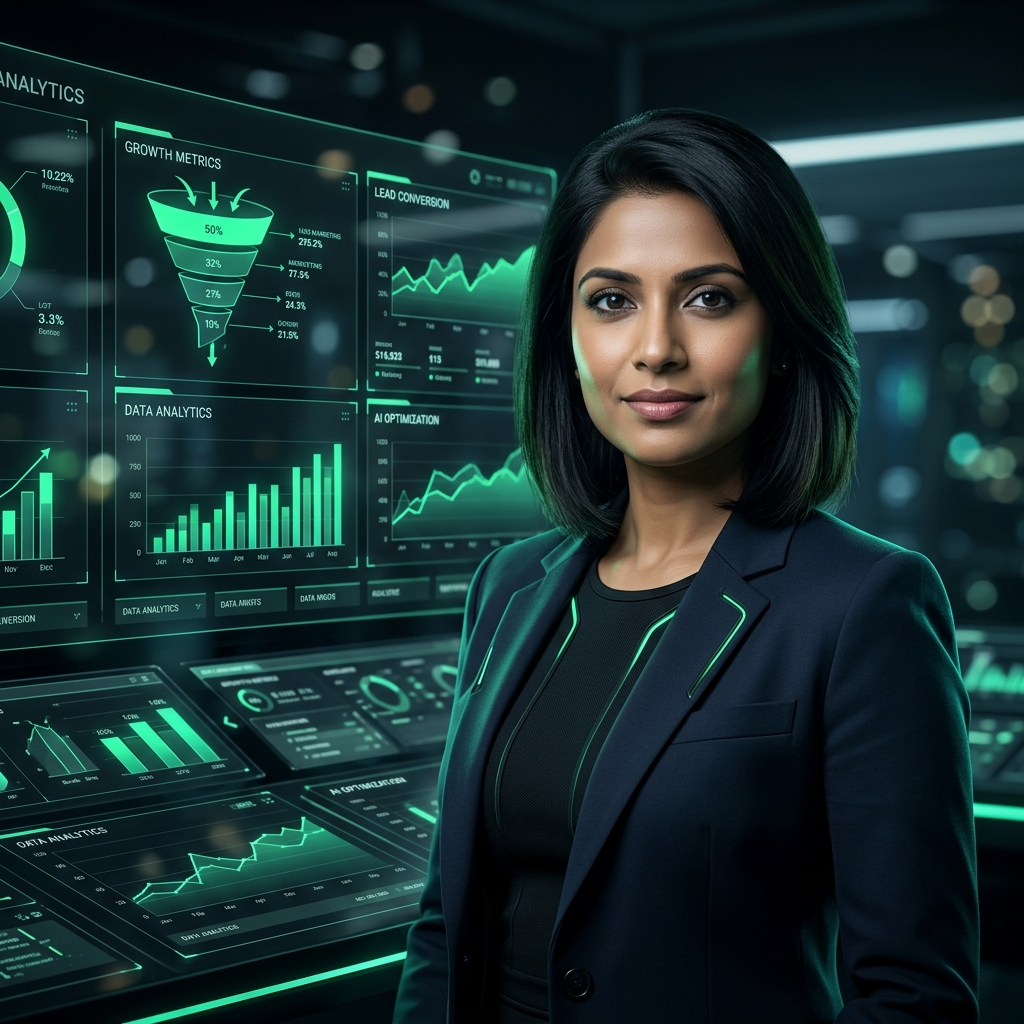
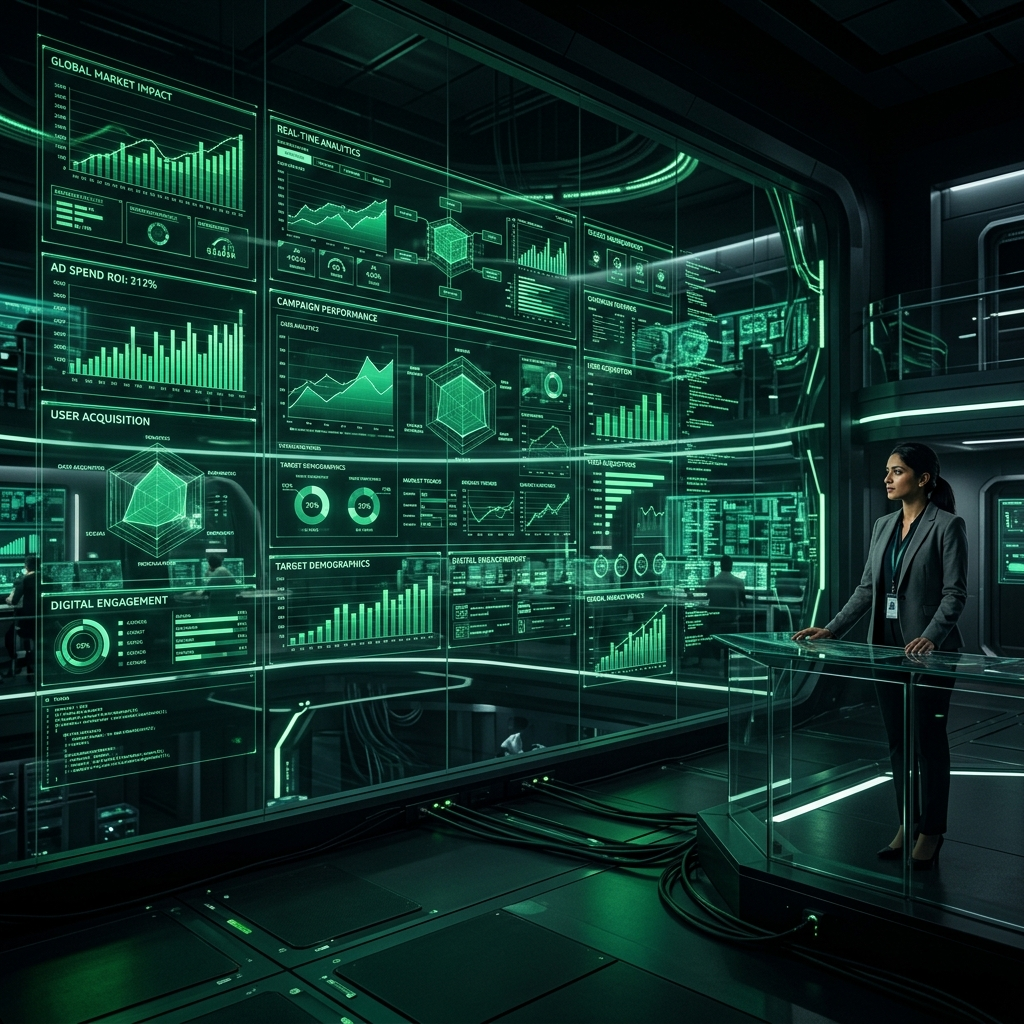
Expose zoomed-out Trisha cover slide with default center alignment

diff --git a/login.html b/login.html
@@ -7,7 +7,7 @@
     <link rel="preconnect" href="https://fonts.googleapis.com">
     <link rel="preconnect" href="https://fonts.gstatic.com" crossorigin>
     <link href="https://fonts.googleapis.com/css2?family=Orbitron:wght@700;800;900&family=Share+Tech+Mono&family=JetBrains+Mono:wght@400;500;700&display=swap" rel="stylesheet">
-    <link rel="stylesheet" href="style.css?v=1.5">
+    <link rel="stylesheet" href="style.css?v=1.6">
 </head>
 <body class="login-body-layout">
     <!-- Abstract gradient backgrounds -->

diff --git a/index.html b/index.html
@@ -7,7 +7,7 @@
     <link rel="preconnect" href="https://fonts.googleapis.com">
     <link rel="preconnect" href="https://fonts.gstatic.com" crossorigin>
     <link href="https://fonts.googleapis.com/css2?family=Orbitron:wght@700;800;900&family=Share+Tech+Mono&family=JetBrains+Mono:wght@400;500;700&display=swap" rel="stylesheet">
-    <link rel="stylesheet" href="style.css?v=1.5">
+    <link rel="stylesheet" href="style.css?v=1.6">
 </head>
 <body>
     <!-- Abstract gradient backgrounds -->

diff --git a/style.css b/style.css
@@ -1126,9 +1126,6 @@ body {
     transition: opacity 1.8s ease-in-out, transform 10s ease-in-out;
 }
 
-.cover-image[src*="cover3"] {
-    object-position: center 20%;
-}
 
 .cover-image.active {
     opacity: 0.85;
